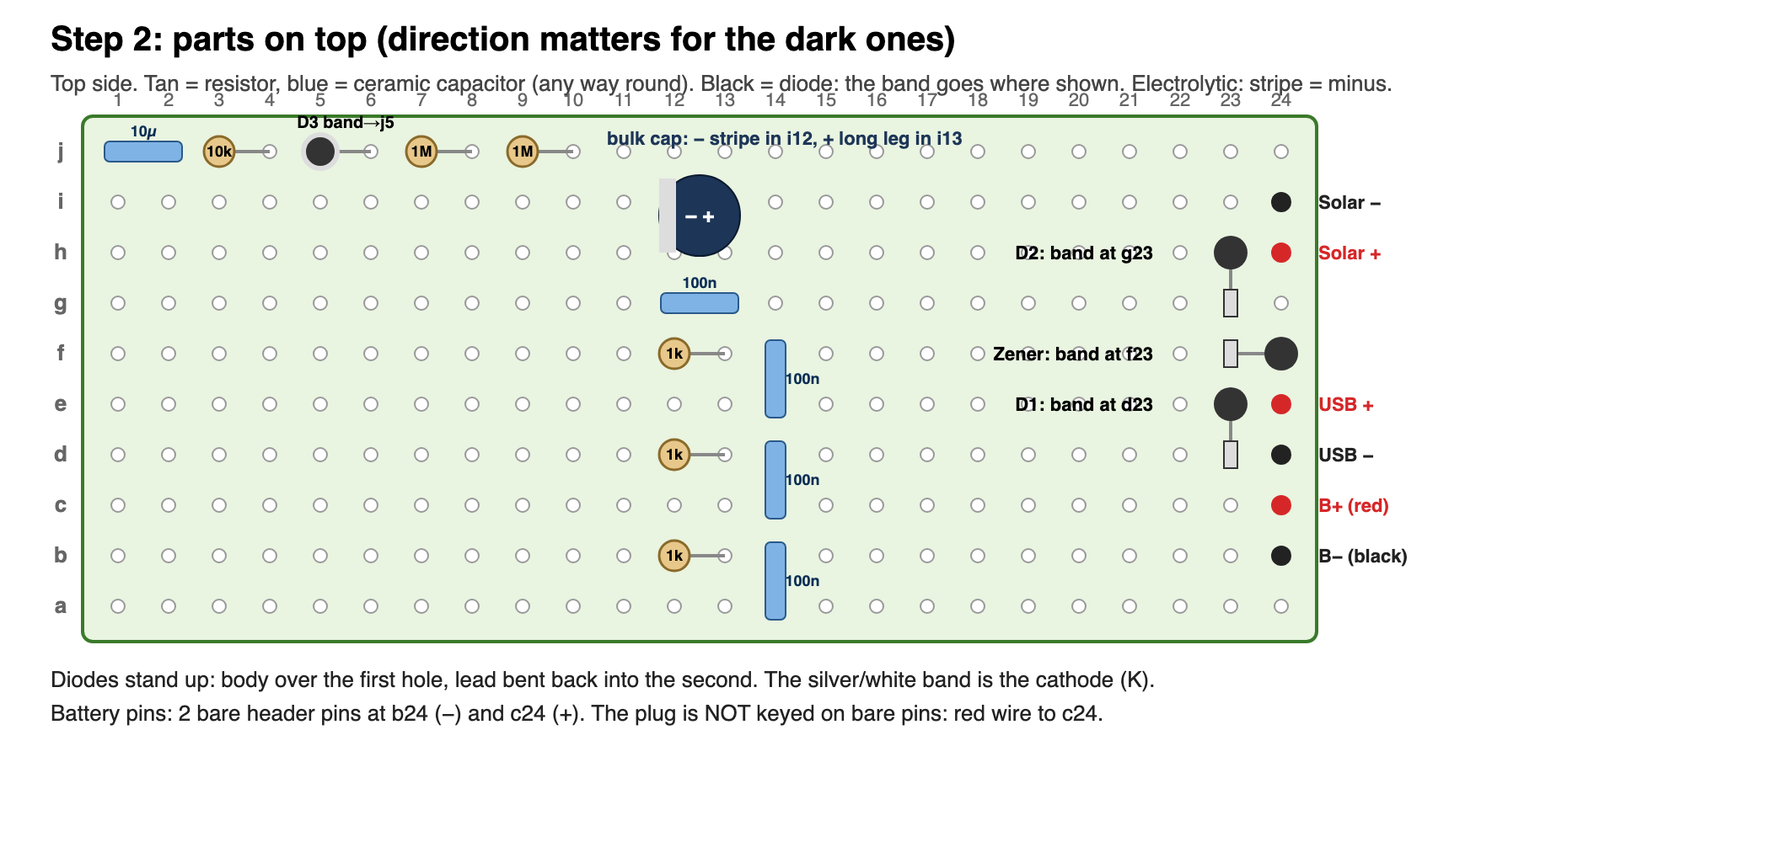
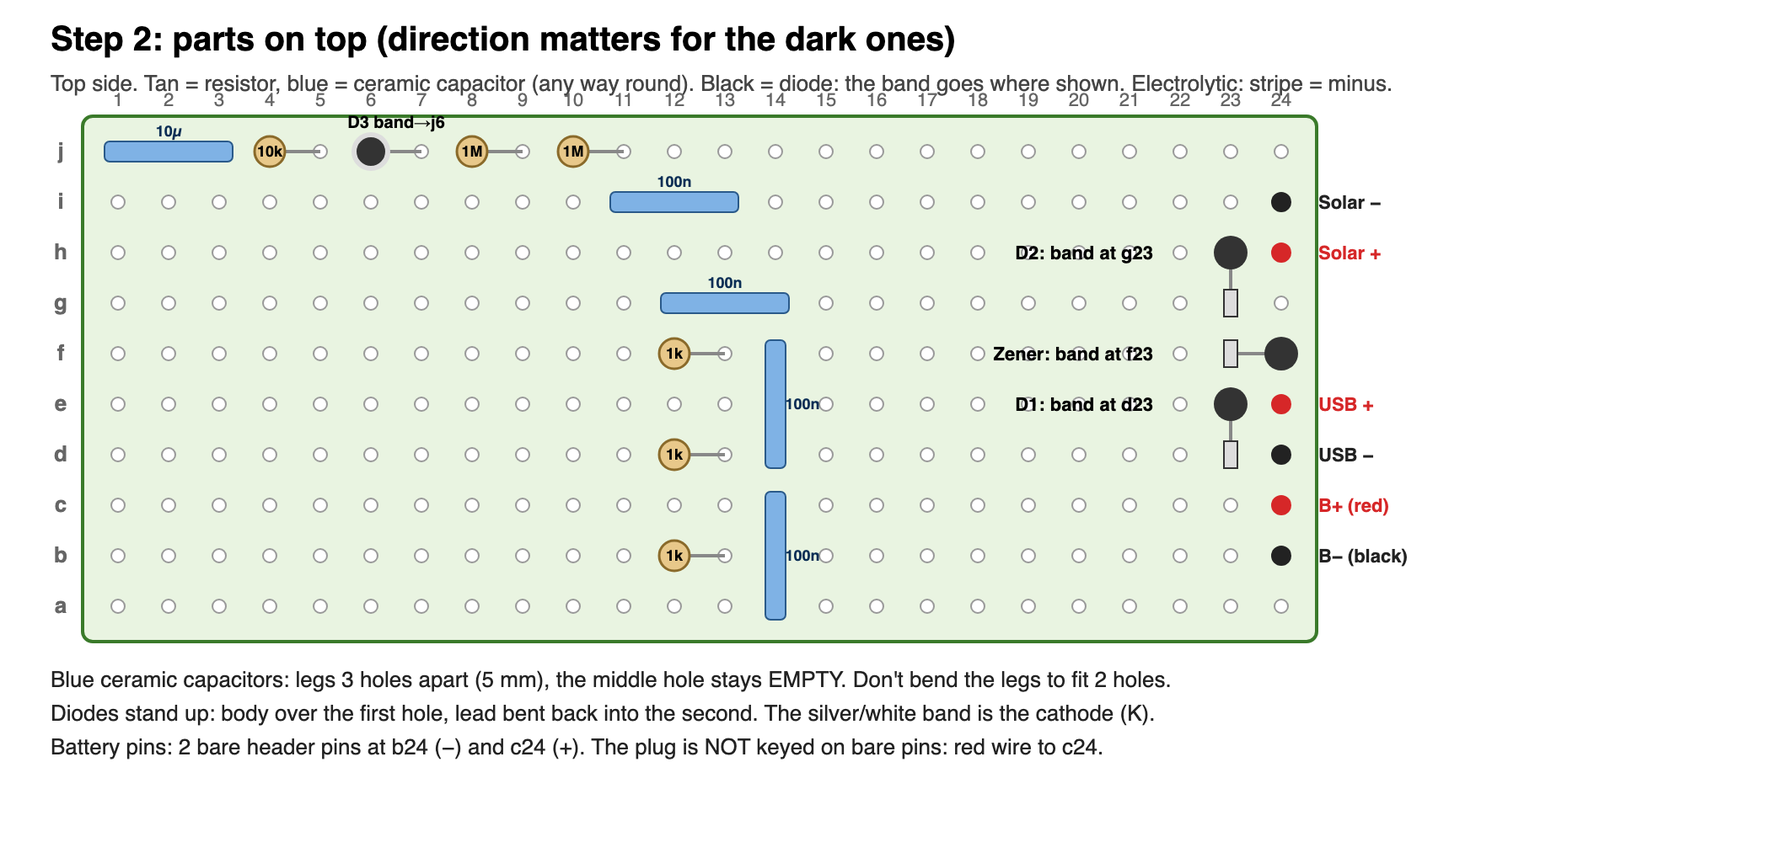
Dev board: ceramic caps on 3-hole (5.08 mm) spans, bulk cap moved to the charger
Re-laid column j and the angle filters so every ceramic capacitor fits its real
lead spacing; checker confirms no part collisions and all 25 nets correct.

diff --git a/hardware/mechanical/fusion/ControllerV4/ControllerV4.py b/hardware/mechanical/fusion/ControllerV4/ControllerV4.py
@@ -128,30 +128,29 @@ def layout():
                     cyls=[(name, (X(i0), Y(m0), t + 0.5), (X(i0), Y(m0), t + 0.5 + h), d / 2)])
 
     def disc(name, ha, hb, labels=('', '')):
-        """Ceramic disc / MLCC on 2.54 mm leads, standing, body plane along the line between its holes."""
+        """Monolithic ceramic capacitor from the kit: leads 5.08 mm apart (3 holes: the middle one stays free under it),
+        body ~4.8 wide along its leads, 2 mm thick, 5 mm tall. Don't bend the leads."""
         (i0, m0), (i1, m1) = H(ha), H(hb)
-        x0, x1 = sorted((X(i0), X(i1)))
-        y0, y1 = sorted((Y(m0), Y(m1)))
+        assert abs(i0 - i1) + abs(m0 - m1) == 2, name + ': ceramic caps span 3 holes'
+        xm, ym = (X(i0) + X(i1)) / 2, (Y(m0) + Y(m1)) / 2
         if i0 == i1:
-            box = (name, x0 - 1.0, x1 + 1.0, y0 - 1.0, y1 + 1.0, t, t + 5.0)     # 2 mm thick monolithic body
+            box = (name, xm - 1.0, xm + 1.0, ym - 2.4, ym + 2.4, t, t + 5.0)
         else:
-            box = (name, x0 - 1.0, x1 + 1.0, y0 - 1.0, y1 + 1.0, t, t + 5.0)
+            box = (name, xm - 2.4, xm + 2.4, ym - 1.0, ym + 1.0, t, t + 5.0)
         return Part(name, [(i0, m0, labels[0]), (i1, m1, labels[1])], [box])
 
-    # next to the ESP (column i, j rows 1-10)
-    parts += [disc('C 10u', 'j1', 'j2', ('5V', 'G')),
-              upright('R stat 10k', 'j3', 'j4'),
-              upright('D3 1N5819', 'j5', 'j6', 2.7, 8.0, ('K', 'A')),
-              upright('R div top 1M', 'j7', 'j8'),
-              upright('R div bot 1M', 'j9', 'j10'),
-              disc('C div 100n', 'g12', 'g13')]
-    # angle filters, rows 12-14 (1 k standing, 100 n disc)
-    for k, col, ccol in ((1, 'b', 'a'), (2, 'd', 'c'), (3, 'f', 'e')):
-        parts += [upright('R ADC%d 1k' % k, '%s12' % col, '%s13' % col),
-                  disc('C ADC%d 100n' % k, '%s14' % ccol, '%s14' % col)]
-    # bulk electrolytic (comes with the charger), standing, rows 11-13 at the back edge
-    parts.append(Part('C bulk', [H('i12') + ('-',), H('i13') + ('+',)],
-                      cyls=[('C bulk', ((X(11) + X(12)) / 2, Y(8) + 0.6, t), ((X(11) + X(12)) / 2, Y(8) + 0.6, t + 13.0), 4.0)]))
+    # next to the ESP (column j rows 1-11; the middle hole of a ceramic cap stays empty under it)
+    parts += [disc('C 10u', 'j1', 'j3', ('5V', 'G')),
+              upright('R stat 10k', 'j4', 'j5'),
+              upright('D3 1N5819', 'j6', 'j7', 2.7, 8.0, ('K', 'A')),
+              upright('R div top 1M', 'j8', 'j9'),
+              upright('R div bot 1M', 'j10', 'j11'),
+              disc('C div 100n', 'i11', 'i13')]
+    # angle filters, rows 12-14 (1 k standing, 100 n spanning 3 holes)
+    parts += [upright('R ADC1 1k', 'b12', 'b13'), disc('C ADC1 100n', 'a14', 'c14'),
+              upright('R ADC2 1k', 'd12', 'd13'), disc('C ADC2 100n', 'd14', 'f14'),
+              upright('R ADC3 1k', 'f12', 'f13'), disc('C ADC3 100n', 'g12', 'g14')]
+    # the charger's own bulk electrolytic is soldered on the charger board (not on the perfboard)
     # power row: diodes and zener (row 23), connectors (row 24)
     parts += [upright('D1 1N5819 USB', 'e23', 'd23', 2.7, 8.0, ('A', 'K')),
               upright('D2 1N5819 solar', 'h23', 'g23', 2.7, 8.0, ('A', 'K')),
@@ -173,31 +172,31 @@ def layout():
 WIRES = [
     # rails (bare tinned wire along the column, soldered at every hole)
     ('a12', 'a24', 'GND rail: bare wire down column a, rows 12-24'),
-    ('j11', 'j24', 'VBAT rail: bare wire down column j, rows 11-24'),
+    ('j12', 'j24', 'VBAT rail: bare wire down column j, rows 12-24'),
     # ESP pins to their neighbours
     ('a1', 'b1', 'bridge: port 3 IN1 -> GPIO16'), ('a2', 'b2', 'bridge: port 3 IN2 -> GPIO17'),
     ('a3', 'b3', 'bridge: angle 1 -> GPIO0'), ('a4', 'b4', 'bridge: angle 2 -> GPIO1'), ('a5', 'b5', 'bridge: angle 3 -> GPIO2'),
     ('a6', 'b6', 'bridge: battery divider -> GPIO3'),
     ('a7', 'b7', 'bridge: port 1 EN -> GPIO4'), ('a8', 'b8', 'bridge: port 2 EN -> GPIO5'), ('a9', 'b9', 'bridge: port 3 EN -> GPIO6'),
     ('a10', 'b10', 'bridge: charger STAT -> GPIO7'),
-    ('h1', 'j1', 'bridge (over i1): ESP 5V -> C 10u'), ('h2', 'j2', 'bridge (over i2): ESP GND -> C 10u'),
-    ('h3', 'j3', 'bridge (over i3): ESP 3V3 -> R stat'),
+    ('h1', 'j1', 'bridge (over i1): ESP 5V -> C 10u'), ('h2', 'j2', 'bridge (over i2): ESP GND'),
+    ('j2', 'j3', 'bridge: ESP GND -> C 10u'), ('h3', 'i3', 'bridge: ESP 3V3'),
     ('h4', 'i4', 'bridge: port 2 IN1 -> GPIO20'), ('h5', 'i5', 'bridge: port 1 IN2 -> GPIO19'),
     ('h6', 'i6', 'bridge: port 1 IN1 -> GPIO18'), ('h8', 'i8', 'bridge: port 2 IN2 -> GPIO14'),
     # power to the ESP, STAT, divider
-    ('j5', 'j1', 'wire: D3 cathode -> ESP 5V'), ('j6', 'j11', 'wire: D3 anode -> VBAT rail'),
-    ('j2', 'a12', 'wire: ESP GND -> GND rail'), ('j4', 'a10', 'wire: R stat -> STAT / GPIO7'),
-    ('j7', 'j11', 'wire: R div top -> VBAT rail'), ('j8', 'j9', 'bridge: divider node'),
-    ('j8', 'g12', 'wire: divider node -> C div'), ('g12', 'a6', 'wire: divider node -> GPIO3'),
-    ('j10', 'a12', 'wire: R div bot -> GND rail'), ('g13', 'a13', 'wire: C div -> GND rail'),
+    ('i3', 'j4', 'wire: 3V3 -> R stat'), ('j5', 'a10', 'wire: R stat -> STAT / GPIO7'),
+    ('j6', 'j1', 'wire: D3 cathode -> ESP 5V'), ('j7', 'j12', 'wire: D3 anode -> VBAT rail'),
+    ('j3', 'a12', 'wire: ESP GND -> GND rail'),
+    ('j8', 'j12', 'wire: R div top -> VBAT rail'), ('j9', 'j10', 'bridge: divider node'),
+    ('j9', 'i11', 'wire: divider node -> C div'), ('i11', 'a6', 'wire: divider node -> GPIO3'),
+    ('j11', 'a13', 'wire: R div bot -> GND rail'), ('i13', 'a13', 'wire: C div -> GND rail'),
     # angle filters
     ('b11', 'b12', 'bridge: port 1 ANGLE -> R ADC1'), ('d11', 'd12', 'bridge: port 2 ANGLE -> R ADC2'),
     ('f11', 'f12', 'bridge: port 3 ANGLE -> R ADC3'),
-    ('b13', 'b14', 'bridge: R ADC1 -> C ADC1'), ('d13', 'd14', 'bridge: R ADC2 -> C ADC2'), ('f13', 'f14', 'bridge: R ADC3 -> C ADC3'),
+    ('b13', 'c14', 'bridge (over b14): R ADC1 -> C ADC1'), ('d13', 'd14', 'bridge: R ADC2 -> C ADC2'),
+    ('f13', 'g12', 'wire: R ADC3 -> C ADC3'),
     ('b13', 'a3', 'wire: filter 1 -> GPIO0'), ('d13', 'a4', 'wire: filter 2 -> GPIO1'), ('f13', 'a5', 'wire: filter 3 -> GPIO2'),
-    ('c14', 'a14', 'wire: C ADC2 -> GND rail'), ('e14', 'a14', 'wire: C ADC3 -> GND rail'),
-    # bulk cap
-    ('i13', 'j13', 'bridge: C bulk + -> VBAT rail'), ('i12', 'a12', 'wire: C bulk - -> GND rail'),
+    ('f14', 'a15', 'wire: C ADC2 -> GND rail'), ('g14', 'a16', 'wire: C ADC3 -> GND rail'),
     # power row
     ('e23', 'e24', 'bridge: USB V+ -> D1 anode'), ('h23', 'h24', 'bridge: solar + -> D2 anode'),
     ('d23', 'f23', 'wire: D1 cathode -> PWR node (zener cathode)'), ('f23', 'g23', 'bridge: PWR node -> D2 cathode'),
@@ -225,11 +224,13 @@ def wiring_md():
         if p.pins and p.name not in ('ESP32-C6', 'Port leads'):
             o.append('| %s | %s | %s |' % (p.name, ', '.join('%s%s' % (HN(i, m), (' (' + lab + ')') if lab else '')
                                                          for i, m, lab in p.pins), p.note))
-    o += ['', 'ESP32-C6: chip side up, header pins in its **inner** holes, into **b1-b10** (TX16, RX17, 0, 1, 2, 3, 4, 5, 6, 7) and',
+    o += ['', 'All ceramic capacitors (100 n, 10 u) have legs 3 holes apart: the middle hole stays empty under the body.',
+          'The bulk electrolytic that comes with the charger is soldered onto the charger board itself (+ to its LOAD side).', '',
+          'ESP32-C6: chip side up, header pins in its **inner** holes, into **b1-b10** (TX16, RX17, 0, 1, 2, 3, 4, 5, 6, 7) and',
           '**h1-h10** (5V, GND, 3V3, 20, 19, 18, 15, 14, 9, 8), USB-C overhanging row 1 (confirmed against the board).',
           'Leave its inner pads (12, 13, 21, 22, 23) and BAT pad unconnected. Charger: foam tape over **c15-h22**.', '',
-          'D3 (j5-j6) drops ~0.3 V, so the ESP browns out near 3.4-3.5 V on the cell (last ~10-15 %). Optional: 2 header',
-          'pins + jumper at j5-j6 instead of D3 (zero drop; pull the jumper before plugging USB into the ESP).', '',
+          'D3 (j6-j7) drops ~0.3 V, so the ESP browns out near 3.4-3.5 V on the cell (last ~10-15 %). Optional: 2 header',
+          'pins + jumper at j6-j7 instead of D3 (zero drop; pull the jumper before plugging USB into the ESP).', '',
           '## Port leads (from the RJ12 boards)', '', '| Lead | Hole | Lead | Hole | Lead | Hole |', '|---|---|---|---|---|---|']
     leads = {lab: HN(i, m) for i, m, lab in next(p for p in layout() if p.name == 'Port leads').pins}
     for sig in ('IN1', 'IN2', 'EN', 'ANG', 'VBAT', 'GND'):

diff --git a/tools/devboard_guide.py b/tools/devboard_guide.py
@@ -130,29 +130,24 @@ def guide_top():
 
     o = board('Step 2: parts on top (direction matters for the dark ones)',
               'Top side. Tan = resistor, blue = ceramic capacitor (any way round). Black = diode: the band goes where shown. Electrolytic: stripe = minus.')
-    for name, a, b, txt in (('R stat', 'j3', 'j4', '10k'), ('R div top', 'j7', 'j8', '1M'), ('R div bot', 'j9', 'j10', '1M'),
+    for name, a, b, txt in (('R stat', 'j4', 'j5', '10k'), ('R div top', 'j8', 'j9', '1M'), ('R div bot', 'j10', 'j11', '1M'),
                             ('R ADC1', 'b12', 'b13', '1k'), ('R ADC2', 'd12', 'd13', '1k'), ('R ADC3', 'f12', 'f13', '1k')):
         resistor(o, a, b, txt)
-    for a, b, txt in (('j1', 'j2', '10µ'), ('g12', 'g13', '100n'), ('a14', 'b14', '100n'), ('c14', 'd14', '100n'), ('e14', 'f14', '100n')):
+    for a, b, txt in (('j1', 'j3', '10µ'), ('i11', 'i13', '100n'), ('a14', 'c14', '100n'), ('d14', 'f14', '100n'), ('g12', 'g14', '100n')):
         ceramic(o, a, b, txt)
-    diode(o, 'j5', 'j6', 'D3 band→j5', True)
+    diode(o, 'j6', 'j7', 'D3 band→j6', True)
     diode(o, 'e23', 'd23', '', False)
     diode(o, 'h23', 'g23', '', False)
     diode(o, 'f24', 'f23', '', False)
     for h, t in (('e23', 'D1: band at d23'), ('h23', 'D2: band at g23'), ('f23', 'Zener: band at f23')):
         x, y = pos(h)
         o.append('<text x="%.0f" y="%.0f" font-size="11" font-weight="bold" text-anchor="end">%s</text>' % (x - 46, y + 4, t))
-    x0, y0 = pos('i12')
-    x1, y1 = pos('i13')
-    o.append('<circle cx="%.0f" cy="%.0f" r="24" fill="#1d3557" stroke="#0b1a2e"/>' % ((x0 + x1) / 2, y0 + 8))
-    o.append('<rect x="%.0f" y="%.0f" width="10" height="44" fill="#ddd"/>' % ((x0 + x1) / 2 - 24, y0 - 14))
-    o.append('<text x="%.0f" y="%.0f" font-size="12" fill="#fff" text-anchor="middle" font-weight="bold">−  +</text>' % ((x0 + x1) / 2, y0 + 12))
-    label(o, 'i12', 'bulk cap: − stripe in i12, + long leg in i13', dx=-40, dy=-34, size=11, color='#1d3557', anchor='start')
     for h, t, c in (('b24', 'B− (black)', '#222'), ('c24', 'B+ (red)', '#d62728'), ('d24', 'USB −', '#222'), ('e24', 'USB +', '#d62728'),
                     ('h24', 'Solar +', '#d62728'), ('i24', 'Solar −', '#222')):
         dot(o, h, c)
         label(o, h, t, dx=22, dy=4, color=c, size=11, anchor='start')
-    finish(o, 'build-2-parts.svg', ['Diodes stand up: body over the first hole, lead bent back into the second. The silver/white band is the cathode (K).',
+    finish(o, 'build-2-parts.svg', ['Blue ceramic capacitors: legs 3 holes apart (5 mm), the middle hole stays EMPTY. Don\'t bend the legs to fit 2 holes.',
+                                     'Diodes stand up: body over the first hole, lead bent back into the second. The silver/white band is the cathode (K).',
                                      'Battery pins: 2 bare header pins at b24 (−) and c24 (+). The plug is NOT keyed on bare pins: red wire to c24.'])
 
 
@@ -212,6 +207,7 @@ def polarity():
     # ceramic & resistor
     o += ['<rect x="560" y="90" width="40" height="30" rx="5" fill="#7fb2e5"/>', '<text x="580" y="80" font-size="14" text-anchor="middle" font-weight="bold">ceramic</text>',
           '<text x="580" y="145" font-size="13" text-anchor="middle">any way round</text>',
+          '<text x="580" y="165" font-size="13" text-anchor="middle">legs 3 holes apart</text>',
           '<rect x="700" y="96" width="70" height="26" rx="10" fill="#e8c88a"/>', '<text x="735" y="80" font-size="14" text-anchor="middle" font-weight="bold">resistor</text>',
           '<text x="735" y="145" font-size="13" text-anchor="middle">any way round</text>']
     o.append('</svg>')

diff --git a/tools/devboard_check.py b/tools/devboard_check.py
@@ -59,14 +59,14 @@ def gap(a, b):
 
 # ------------------------------------------------------------------ nets
 EXPECT = {
-    'GND': ['h2', 'j2', 'a12', 'a24', 'j10', 'g13', 'a14', 'c14', 'e14', 'i12', 'b24', 'd24', 'f24', 'i24',
+    'GND': ['h2', 'j2', 'j3', 'a12', 'a13', 'a24', 'j11', 'i13', 'a14', 'f14', 'g14', 'b24', 'd24', 'f24', 'i24',
             'a15', 'a16', 'a17', 'a20', 'a21', 'a22'],
-    'VBAT': ['j11', 'j24', 'j6', 'j7', 'i13', 'j15', 'j16', 'j17', 'j20'],
-    '5V': ['h1', 'j1', 'j5'],
-    '3V3': ['h3', 'j3'],
-    'STAT': ['b10', 'a10', 'j4'],
-    'VDIV': ['b6', 'a6', 'j8', 'j9', 'g12'],
-    'ADC0': ['b3', 'a3', 'b13', 'b14'], 'ADC1': ['b4', 'a4', 'd13', 'd14'], 'ADC2': ['b5', 'a5', 'f13', 'f14'],
+    'VBAT': ['j12', 'j24', 'j7', 'j8', 'j15', 'j16', 'j17', 'j20'],
+    '5V': ['h1', 'j1', 'j6'],
+    '3V3': ['h3', 'i3', 'j4'],
+    'STAT': ['b10', 'a10', 'j5'],
+    'VDIV': ['b6', 'a6', 'j9', 'j10', 'i11'],
+    'ADC0': ['b3', 'a3', 'b13', 'c14'], 'ADC1': ['b4', 'a4', 'd13', 'd14'], 'ADC2': ['b5', 'a5', 'f13', 'g12'],
     'ANG1': ['b11', 'b12'], 'ANG2': ['d11', 'd12'], 'ANG3': ['f11', 'f12'],
     'EN1': ['a7', 'b7'], 'EN2': ['a8', 'b8'], 'EN3': ['a9', 'b9'],
     'P3IN1': ['a1', 'b1'], 'P3IN2': ['a2', 'b2'], 'P1IN1': ['i6', 'h6'], 'P1IN2': ['i5', 'h5'],

diff --git a/docs/dev-board-build.md b/docs/dev-board-build.md
@@ -12,10 +12,10 @@ checks that the wiring makes every connection with no shorts.
 | Part | Direction matters? | How to tell |
 |---|---|---|
 | Resistors (1k, 10k, 1M) | **No** | either way round |
-| Ceramic capacitors (100n, 10µ, small blue/yellow blocks) | **No** | either way round |
+| Ceramic capacitors (100n, 10µ, small blue/yellow blocks) | **No** | either way round. Their legs are **3 holes apart** (5 mm): use the holes in the table and leave the middle one empty. Don't bend the legs to fit 2 holes |
 | **1N5819 diodes** (D1, D2, D3) | **YES** | the silver/white **band is the cathode (K)**; put the band where the picture shows |
 | **6.2 V zener** (Z) | **YES** | same: band = cathode |
-| **Bulk electrolytic** (the can that comes with the charger) | **YES** | stripe with "−" marks minus; the **long leg is +** |
+| **Bulk electrolytic** (the can that comes with the charger, if there is one) | **YES** | it goes **on the charger board**, not the perfboard. Stripe with "−" marks minus; the **long leg is +** |
 | **ESP32-C6** | **YES** | chip side up, USB-C past row 1, 5V/GND/3V3 in column h |
 | **Battery plug** on the 2 header pins | **YES, and it can go on backwards** | red wire on **c24 (+)**, black on **b24 (−)**; mark c24 with a marker |
 | USB-C and solar leads | **YES** | red/+ to e24 (USB) and h24 (solar), black/− to d24 and i24 |
@@ -46,18 +46,20 @@ can damage parts. Check those three twice before connecting the battery.
 ![step 2](renders/build-2-parts.png)
 
 Resistors and diodes **stand up**: body over the first hole, the other lead bent down into the second hole.
+Ceramic capacitors sit straight down with one leg in each listed hole; the hole between them stays empty.
+If a lead ever has to be bent, hold it with pliers right next to the body and bend below the pliers, so the body
+isn't stressed.
 
 | Part | Holes | Direction |
 |---|---|---|
-| 10 µF ceramic | j1, j2 | any |
-| 10 kΩ (R stat) | j3, j4 | any |
-| **D3** 1N5819 | j5, j6 | **band at j5** |
-| 1 MΩ (divider top) | j7, j8 | any |
-| 1 MΩ (divider bottom) | j9, j10 | any |
-| 100 nF (divider) | g12, g13 | any |
+| 10 µF ceramic | j1, j3 (j2 empty) | any |
+| 10 kΩ (R stat) | j4, j5 | any |
+| **D3** 1N5819 | j6, j7 | **band at j6** |
+| 1 MΩ (divider top) | j8, j9 | any |
+| 1 MΩ (divider bottom) | j10, j11 | any |
+| 100 nF (divider) | i11, i13 (i12 empty) | any |
 | 1 kΩ ×3 (angle filters) | b12–b13, d12–d13, f12–f13 | any |
-| 100 nF ×3 (angle filters) | a14–b14, c14–d14, e14–f14 | any |
-| **Bulk electrolytic** | i12, i13 | **stripe (−) in i12, long leg (+) in i13** |
+| 100 nF ×3 (angle filters) | a14–c14, d14–f14, g12–g14 (middle holes empty) | any |
 | **D1** 1N5819 (USB) | e23, d23 | **band at d23** |
 | **D2** 1N5819 (solar) | h23, g23 | **band at g23** |
 | **Zener** 6.2 V | f24, f23 | **band at f23** |
@@ -70,17 +72,18 @@ Resistors and diodes **stand up**: body over the first hole, the other lead bent
 Flip the board over its **long** edge: row 1 stays on the left, column a is now at the **top**. The colours match the
 nets: black GND, red battery +, orange 5V, purple 3V3, blue signals.
 
-1. **Rails first:** a bare wire along column **a**, rows 12–24 (GND), and along column **j**, rows 11–24 (battery +),
+1. **Rails first:** a bare wire along column **a**, rows 12–24 (GND), and along column **j**, rows 12–24 (battery +),
    soldered at every hole.
-2. **Bridges** next to the ESP (a1–b1 … a10–b10; h1–i1–j1, h2–i2–j2, h3–i3–j3; h4–i4, h5–i5, h6–i6, h8–i8) and the
-   short ones in rows 11–14 and 23–24.
+2. **Bridges** next to the ESP (a1–b1 … a10–b10; h1–i1–j1, h2–i2–j2–j3, h3–i3; h4–i4, h5–i5, h6–i6, h8–i8) and the
+   short ones in rows 9–14 and 23–24. Bridging under the empty middle hole of a capacitor is fine.
 3. **Wires** (dashed in the picture): every one is in the "Underside wiring" table of
    [ctrl-v4-wiring.md](renders/ctrl-v4-wiring.md), with what it connects.
 4. After each group, check with the meter's beep mode: the two ends beep, and **GND (a12) must NOT beep to battery +
-   (j11)** or to 5V (h1).
+   (j12)** or to 5V (h1).
 
 ## Step 4: charger
-1. Before mounting: remove the charger's THERM resistor and solder the 10 kΩ NTC's two leads there (the NTC gets taped
+1. Before mounting: if the charger came with a loose bulk capacitor, solder it onto the charger's own output/LOAD
+   pads (+ to LOAD +), or to the LOAD + and LOAD − wire ends right at the charger. Then remove the charger's THERM resistor and solder the 10 kΩ NTC's two leads there (the NTC gets taped
    to the cell later). Tin its pads.
 2. Stick it on with foam tape over **c15–h22**, pads facing where the wires will reach.
 3. Wire its pads (short insulated wires, from the top):
@@ -112,7 +115,7 @@ Solder the 18 leads from the three RJ12 boards from the top (pin 1 = the square 
 Then the USB-C breakout's VBUS → e24 and GND → d24, and the solar lead's + → h24 and − → i24.
 
 ## Step 6: first power-up (no battery yet)
-1. Meter check: GND (a12) to battery + (j11): no beep. GND to 5V (h1): no beep. GND to 3V3 (h3): no beep.
+1. Meter check: GND (a12) to battery + (j12): no beep. GND to 5V (h1): no beep. GND to 3V3 (h3): no beep.
 2. Plug USB into the **ESP's own** USB-C only (battery unplugged). Its LED should light; upload the test sketch.
-3. Unplug USB, then push the cell's plug onto b24/c24 (**red on c24**). Measure j11 to a12: the cell voltage (3.0–4.2 V).
+3. Unplug USB, then push the cell's plug onto b24/c24 (**red on c24**). Measure j12 to a12: the cell voltage (3.0–4.2 V).
 4. Never plug USB into the ESP and the battery at the same time unless D3 is fitted.

diff --git a/docs/renders/ctrl-v4-wiring.md b/docs/renders/ctrl-v4-wiring.md
@@ -6,19 +6,18 @@ Step-by-step guide with pictures and which parts have a direction: [dev-board-bu
 
 | Part | Holes | Note |
 |---|---|---|
-| C 10u | j1 (5V), j2 (G) |  |
-| R stat 10k | j3, j4 |  |
-| D3 1N5819 | j5 (K), j6 (A) |  |
-| R div top 1M | j7, j8 |  |
-| R div bot 1M | j9, j10 |  |
-| C div 100n | g12, g13 |  |
+| C 10u | j1 (5V), j3 (G) |  |
+| R stat 10k | j4, j5 |  |
+| D3 1N5819 | j6 (K), j7 (A) |  |
+| R div top 1M | j8, j9 |  |
+| R div bot 1M | j10, j11 |  |
+| C div 100n | i11, i13 |  |
 | R ADC1 1k | b12, b13 |  |
-| C ADC1 100n | a14, b14 |  |
+| C ADC1 100n | a14, c14 |  |
 | R ADC2 1k | d12, d13 |  |
-| C ADC2 100n | c14, d14 |  |
+| C ADC2 100n | d14, f14 |  |
 | R ADC3 1k | f12, f13 |  |
-| C ADC3 100n | e14, f14 |  |
-| C bulk | i12 (-), i13 (+) |  |
+| C ADC3 100n | g12, g14 |  |
 | D1 1N5819 USB | e23 (A), d23 (K) |  |
 | D2 1N5819 solar | h23 (A), g23 (K) |  |
 | Z 6.2V | f24 (A), f23 (K) |  |
@@ -26,12 +25,15 @@ Step-by-step guide with pictures and which parts have a direction: [dev-board-bu
 | USB leads | d24 (V-), e24 (V+) |  |
 | Solar leads | h24 (S+), i24 (S-) |  |
 
+All ceramic capacitors (100 n, 10 u) have legs 3 holes apart: the middle hole stays empty under the body.
+The bulk electrolytic that comes with the charger is soldered onto the charger board itself (+ to its LOAD side).
+
 ESP32-C6: chip side up, header pins in its **inner** holes, into **b1-b10** (TX16, RX17, 0, 1, 2, 3, 4, 5, 6, 7) and
 **h1-h10** (5V, GND, 3V3, 20, 19, 18, 15, 14, 9, 8), USB-C overhanging row 1 (confirmed against the board).
 Leave its inner pads (12, 13, 21, 22, 23) and BAT pad unconnected. Charger: foam tape over **c15-h22**.
 
-D3 (j5-j6) drops ~0.3 V, so the ESP browns out near 3.4-3.5 V on the cell (last ~10-15 %). Optional: 2 header
-pins + jumper at j5-j6 instead of D3 (zero drop; pull the jumper before plugging USB into the ESP).
+D3 (j6-j7) drops ~0.3 V, so the ESP browns out near 3.4-3.5 V on the cell (last ~10-15 %). Optional: 2 header
+pins + jumper at j6-j7 instead of D3 (zero drop; pull the jumper before plugging USB into the ESP).
 
 ## Port leads (from the RJ12 boards)
 
@@ -51,7 +53,7 @@ RJ12 pin -> signal: 1 VBAT, 2 IN1, 3 GND, 4 ANG, 5 EN, 6 IN2. Port 1 = room side
 | From | To | What |
 |---|---|---|
 | a12 | a24 | GND rail: bare wire down column a, rows 12-24 |
-| j11 | j24 | VBAT rail: bare wire down column j, rows 11-24 |
+| j12 | j24 | VBAT rail: bare wire down column j, rows 12-24 |
 | a1 | b1 | bridge: port 3 IN1 -> GPIO16 |
 | a2 | b2 | bridge: port 3 IN2 -> GPIO17 |
 | a3 | b3 | bridge: angle 1 -> GPIO0 |
@@ -63,35 +65,35 @@ RJ12 pin -> signal: 1 VBAT, 2 IN1, 3 GND, 4 ANG, 5 EN, 6 IN2. Port 1 = room side
 | a9 | b9 | bridge: port 3 EN -> GPIO6 |
 | a10 | b10 | bridge: charger STAT -> GPIO7 |
 | h1 | j1 | bridge (over i1): ESP 5V -> C 10u |
-| h2 | j2 | bridge (over i2): ESP GND -> C 10u |
-| h3 | j3 | bridge (over i3): ESP 3V3 -> R stat |
+| h2 | j2 | bridge (over i2): ESP GND |
+| j2 | j3 | bridge: ESP GND -> C 10u |
+| h3 | i3 | bridge: ESP 3V3 |
 | h4 | i4 | bridge: port 2 IN1 -> GPIO20 |
 | h5 | i5 | bridge: port 1 IN2 -> GPIO19 |
 | h6 | i6 | bridge: port 1 IN1 -> GPIO18 |
 | h8 | i8 | bridge: port 2 IN2 -> GPIO14 |
-| j5 | j1 | wire: D3 cathode -> ESP 5V |
-| j6 | j11 | wire: D3 anode -> VBAT rail |
-| j2 | a12 | wire: ESP GND -> GND rail |
-| j4 | a10 | wire: R stat -> STAT / GPIO7 |
-| j7 | j11 | wire: R div top -> VBAT rail |
-| j8 | j9 | bridge: divider node |
-| j8 | g12 | wire: divider node -> C div |
-| g12 | a6 | wire: divider node -> GPIO3 |
-| j10 | a12 | wire: R div bot -> GND rail |
-| g13 | a13 | wire: C div -> GND rail |
+| i3 | j4 | wire: 3V3 -> R stat |
+| j5 | a10 | wire: R stat -> STAT / GPIO7 |
+| j6 | j1 | wire: D3 cathode -> ESP 5V |
+| j7 | j12 | wire: D3 anode -> VBAT rail |
+| j3 | a12 | wire: ESP GND -> GND rail |
+| j8 | j12 | wire: R div top -> VBAT rail |
+| j9 | j10 | bridge: divider node |
+| j9 | i11 | wire: divider node -> C div |
+| i11 | a6 | wire: divider node -> GPIO3 |
+| j11 | a13 | wire: R div bot -> GND rail |
+| i13 | a13 | wire: C div -> GND rail |
 | b11 | b12 | bridge: port 1 ANGLE -> R ADC1 |
 | d11 | d12 | bridge: port 2 ANGLE -> R ADC2 |
 | f11 | f12 | bridge: port 3 ANGLE -> R ADC3 |
-| b13 | b14 | bridge: R ADC1 -> C ADC1 |
+| b13 | c14 | bridge (over b14): R ADC1 -> C ADC1 |
 | d13 | d14 | bridge: R ADC2 -> C ADC2 |
-| f13 | f14 | bridge: R ADC3 -> C ADC3 |
+| f13 | g12 | wire: R ADC3 -> C ADC3 |
 | b13 | a3 | wire: filter 1 -> GPIO0 |
 | d13 | a4 | wire: filter 2 -> GPIO1 |
 | f13 | a5 | wire: filter 3 -> GPIO2 |
-| c14 | a14 | wire: C ADC2 -> GND rail |
-| e14 | a14 | wire: C ADC3 -> GND rail |
-| i13 | j13 | bridge: C bulk + -> VBAT rail |
-| i12 | a12 | wire: C bulk - -> GND rail |
+| f14 | a15 | wire: C ADC2 -> GND rail |
+| g14 | a16 | wire: C ADC3 -> GND rail |
 | e23 | e24 | bridge: USB V+ -> D1 anode |
 | h23 | h24 | bridge: solar + -> D2 anode |
 | d23 | f23 | wire: D1 cathode -> PWR node (zener cathode) |
